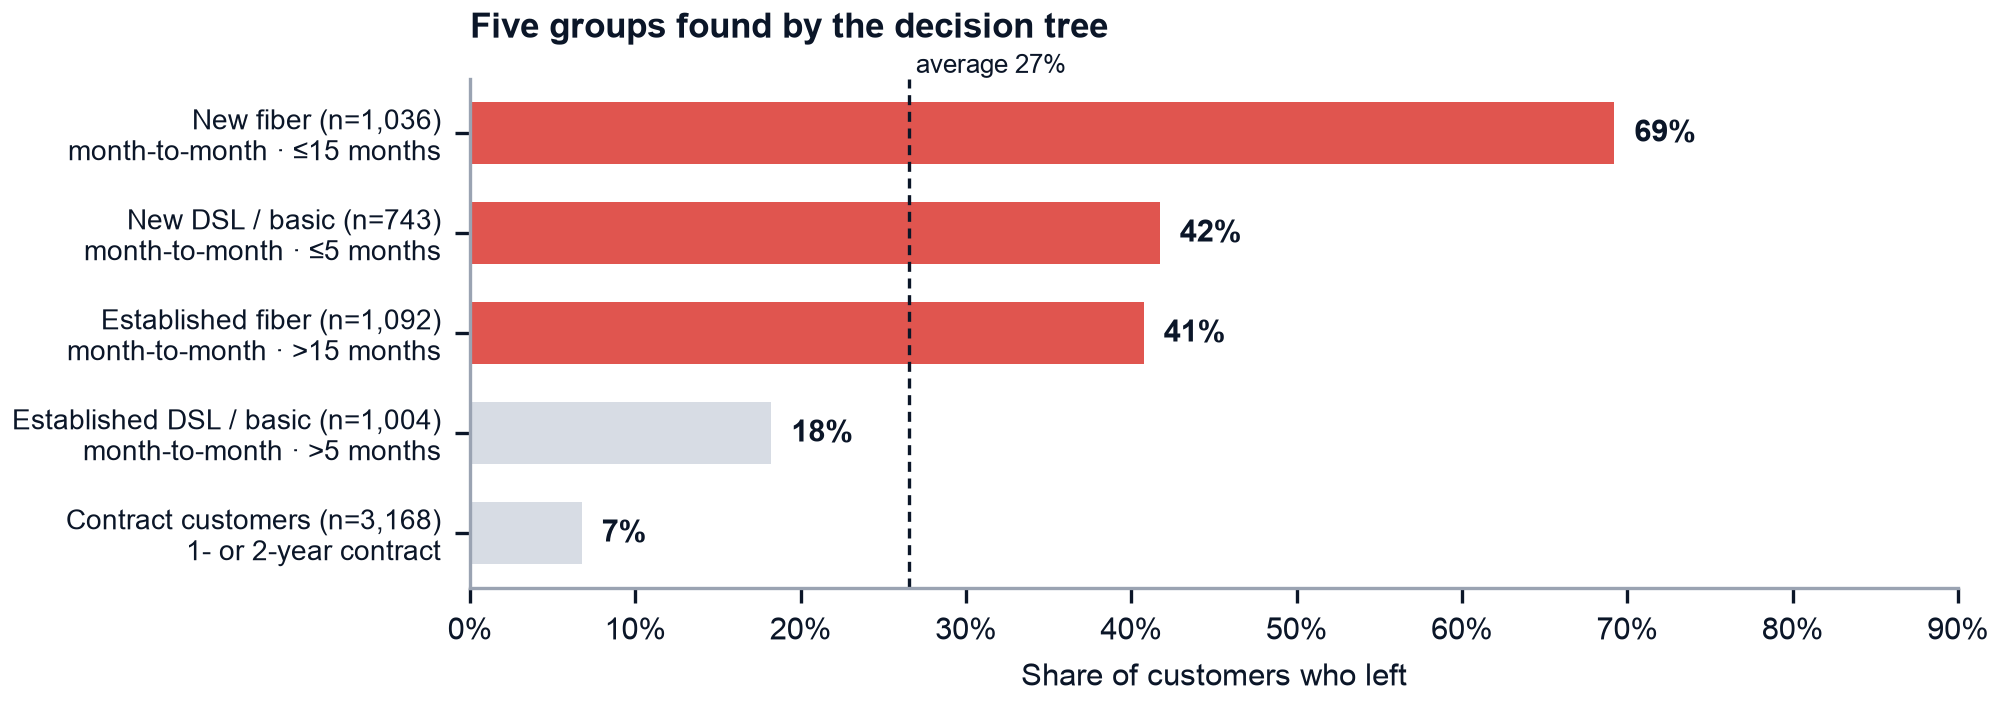
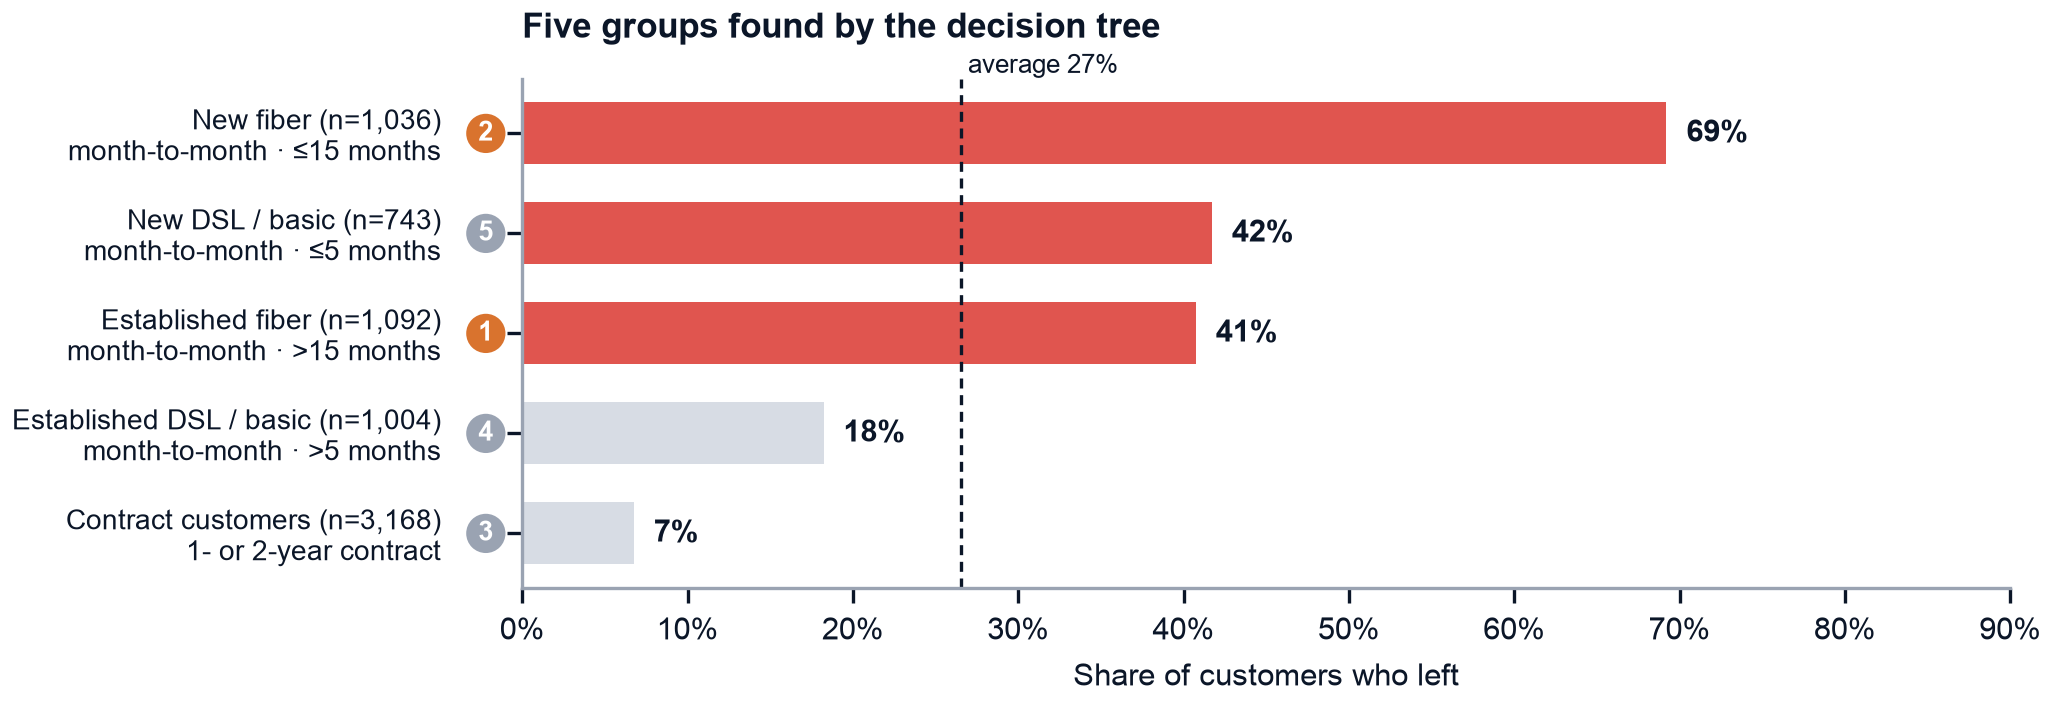
Number segments and add act-first quadrant to report figures
Segments are numbered by revenue at risk (1 = most), as in the dashboard,
across the segment, risk-vs-value and offer-evidence charts. The
risk-vs-value chart gets the dashboard's average crosshair and the shaded
act-first quadrant.

diff --git a/figures.py b/figures.py
@@ -52,6 +52,15 @@ cap = pd.read_csv(OUT / "capacity_curve.csv")
 bc = pd.read_csv(OUT / "business_case.csv")
 ev = pd.read_csv(OUT / "offer_evidence_by_segment.csv")
 
+# Segment numbers as in the dashboard: 1 = most revenue at risk
+NUM = {s: i + 1 for i, s in enumerate(seg.sort_values("revenue_at_risk_12m", ascending=False).segment)}
+
+
+def badge(ax, x, y, n, color, size=7):
+    """Numbered circle like the dashboard's segment markers."""
+    ax.text(x, y, str(n), ha="center", va="center", fontsize=size, fontweight="bold", color="white",
+            bbox=dict(boxstyle="circle,pad=0.25", fc=color, ec="none"), zorder=5, clip_on=False)
+
 # ---------------------------------------------------------------------------
 # Figure 1 - share who left per decision-tree segment
 # ---------------------------------------------------------------------------
@@ -61,6 +70,9 @@ colors = [CORAL if r > kpis.churn_rate else LIGHT for r in s.actual_churn_rate]
 bars = ax.barh(range(len(s)), s.actual_churn_rate, color=colors, height=0.62)
 ax.set_yticks(range(len(s)))
 ax.set_yticklabels([f"{SHORT[x][0]} (n={n:,})\n{SHORT[x][1]}" for x, n in zip(s.segment, s.n_all)], fontsize=6.8)
+ax.tick_params(axis="y", pad=16)
+for i, x in enumerate(s.segment):
+    badge(ax, -0.022, i, NUM[x], ORANGE if "Fiber" in x else GREY, size=6.5)
 for i, (rate, n) in enumerate(zip(s.actual_churn_rate, s.n_all)):
     ax.text(rate + 0.012, i, f"{rate:.0%}", va="center", fontweight="bold", fontsize=7.5)
 ax.axvline(kpis.churn_rate, color=NAVY, lw=0.8, ls=(0, (3, 2)))
@@ -78,17 +90,27 @@ plt.close(fig)
 fig, ax = plt.subplots(figsize=WIDE)
 size = seg.revenue_at_risk_12m / seg.revenue_at_risk_12m.max() * 900
 fiber = seg.segment.str.contains("Fiber")
+# Crosshair at the average of the five groups, top-right quadrant shaded = "act first" (as in the dashboard)
+xm, ym = seg.avg_churn_score.mean(), seg.avg_monthly_charges.mean()
+ax.axvline(xm, color=GREY, lw=0.8, ls=(0, (4, 3)), zorder=1)
+ax.axhline(ym, color=GREY, lw=0.8, ls=(0, (4, 3)), zorder=1)
+ax.axvspan(xm, 0.8, ymin=(ym - 20) / (105 - 20), ymax=1, color=ORANGE, alpha=0.08, lw=0, zorder=0)
+ax.text(0.79, 102, "Act first", ha="right", va="top", color=ORANGE, fontweight="bold", fontsize=7)
+fiber = (seg.avg_churn_score > xm) & (seg.avg_monthly_charges > ym)
 ax.scatter(seg.avg_churn_score, seg.avg_monthly_charges, s=size, c=np.where(fiber, ORANGE, GREY),
            alpha=0.85, edgecolors="white", linewidths=0.8, zorder=3)
+for _, r in seg.iterrows():
+    ax.text(r.avg_churn_score, r.avg_monthly_charges, str(NUM[r.segment]), ha="center", va="center",
+            color="white", fontweight="bold", fontsize=7, zorder=4)
 offsets = {"Month-to-month · Fiber · >15 months": (-0.04, 0, "right"),
            "Month-to-month · Fiber · ≤15 months": (0.04, 0, "left"),
-           "1- or 2-year contract": (0.05, 0, "left"),
+           "1- or 2-year contract": (0.05, -7, "left"),
            "Month-to-month · DSL/no internet · >5 months": (0.04, 4, "left"),
-           "Month-to-month · DSL/no internet · ≤5 months": (0.035, -5, "left")}
+           "Month-to-month · DSL/no internet · ≤5 months": (0.05, -4, "left")}
 for _, r in seg.iterrows():
     dx, dy, ha = offsets[r.segment]
     ax.text(r.avg_churn_score + dx, r.avg_monthly_charges + dy,
-            f"{SHORT[r.segment][0]}\n${r.revenue_at_risk_12m / 1000:,.0f}K at risk",
+            f"{NUM[r.segment]} · {SHORT[r.segment][0]}\n${r.revenue_at_risk_12m / 1000:,.0f}K at risk",
             ha=ha, va="center", fontsize=6.3, fontweight="bold" if fiber[_] else "normal")
 ax.xaxis.set_major_formatter(PercentFormatter(1, decimals=0))
 ax.yaxis.set_major_formatter(FuncFormatter(lambda v, _: f"${v:.0f}"))
@@ -159,9 +181,7 @@ plt.close(fig)
 # ---------------------------------------------------------------------------
 # Figure 5 - offer evidence: churn with vs without tech support / online security
 # ---------------------------------------------------------------------------
-order = ["Month-to-month · Fiber · ≤15 months", "Month-to-month · Fiber · >15 months",
-         "Month-to-month · DSL/no internet · ≤5 months", "Month-to-month · DSL/no internet · >5 months",
-         "1- or 2-year contract"]
+order = sorted(NUM, key=NUM.get)
 fig, axes = plt.subplots(1, 2, figsize=(6.4, 2.1), sharey=True)
 for ax, (factor, title) in zip(axes, [("TechSupport", "Tech support"), ("OnlineSecurity", "Online security")]):
     d = ev[ev.factor == factor].set_index("segment").loc[order]
@@ -179,7 +199,7 @@ for ax, (factor, title) in zip(axes, [("TechSupport", "Tech support"), ("OnlineS
     ax.spines["left"].set_visible(False)
     ax.tick_params(axis="y", length=0)
 axes[0].set_yticks(np.arange(len(order))[::-1])
-axes[0].set_yticklabels([SHORT[x][0] for x in order])
+axes[0].set_yticklabels([f"{NUM[x]} · {SHORT[x][0]}" for x in order])
 axes[1].legend(frameon=False, loc="lower right", fontsize=6.5)
 fig.tight_layout(w_pad=1.5)
 fig.savefig(FIG / "fig5_offer_evidence.png")
